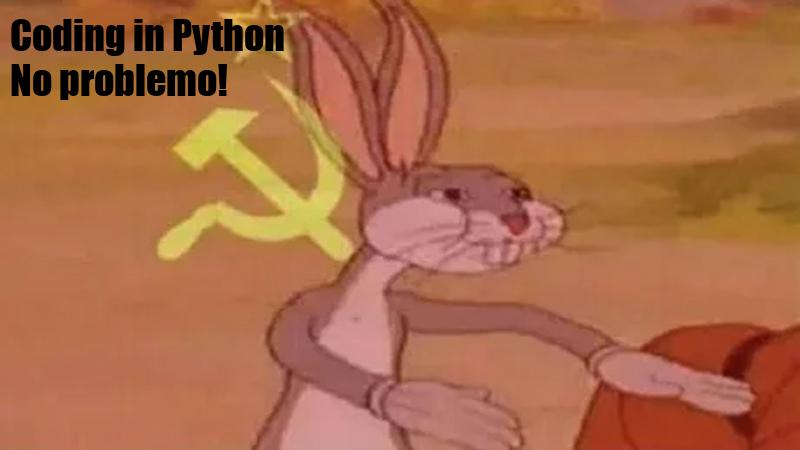
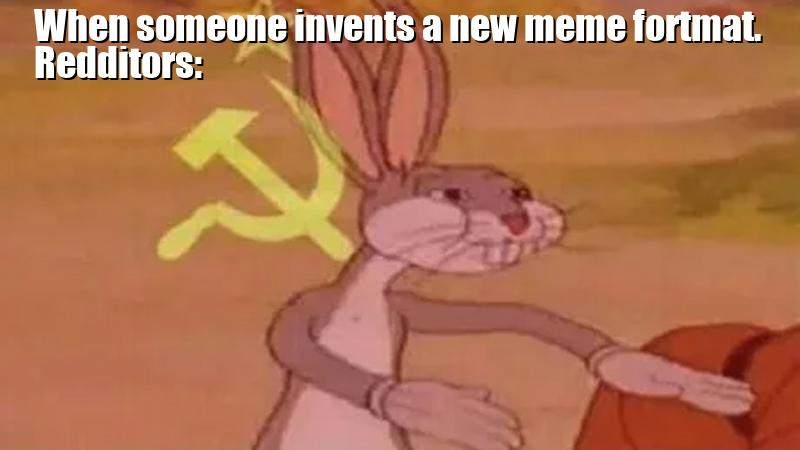
Added Memegifs files

Changed region(s): [[0.0, 0.0, 0.9688, 0.2178]]

diff --git a/03-MemesGifs/maak_meme.py b/03-MemesGifs/maak_meme.py
@@ -1,16 +1,24 @@
 from PIL import Image, ImageFont, ImageDraw
 
-afbeelding = Image.open("bunny.jpg")
+afbeelding = Image.open("meme_background.jpg")
 
 breedte = afbeelding.width
 hoogte = afbeelding.height
 
-lettertype = ImageFont.truetype("impact", 40)
+lettertype = ImageFont.truetype("impact.ttf", 40)
 
 tekengebied = ImageDraw.Draw(afbeelding)
 
-tekst = "Coding in Python\nNo problemo!"
-tekengebied.multiline_text((10,10), tekst, font=lettertype, fill=(0,0,0))
+tekst = "When someone invents a new meme fortmat.\nRedditors:"
+
+tekst_breedte, tekst_hoogte = tekengebied.textsize(tekst, font=lettertype)
+
+tekst_x = (breedte - tekst_breedte) / 2
+#tekst_y = (hoogte - tekst_hoogte) / 2
+tekst_y = 10
+
+tekengebied.multiline_text((tekst_x, tekst_y), tekst, font=lettertype, fill=(0,0,0))
+tekengebied.multiline_text((tekst_x-2, tekst_y-2), tekst, font=lettertype, fill=(255,255,255))
 
 afbeelding.show()
 afbeelding.save("meme_met_tekst.jpg")

diff --git a/03-MemesGifs/meme_tekst_bestand.py b/03-MemesGifs/meme_tekst_bestand.py
@@ -1,0 +1,28 @@
+from PIL import Image, ImageFont, ImageDraw
+
+file = open("meme_tekst.txt")
+
+memeCounter = 0
+
+for text in file:
+    memeCounter += 1
+    text = text.strip()
+    afbeelding = Image.open("meme.jpg")
+
+    breedte = afbeelding.width
+    hoogte = afbeelding.height
+
+    lettertype = ImageFont.truetype("impact.ttf", 40)
+    
+    tekengebied = ImageDraw.Draw(afbeelding)
+    tekst_breedte, tekst_hoogte = tekengebied.textsize(text, font=lettertype)
+
+    tekst_x = (breedte - tekst_breedte) / 2
+    tekst_y = 10
+
+    tekengebied.multiline_text((tekst_x, tekst_y), text, font=lettertype, fill=(0,0,0))
+    tekengebied.multiline_text((tekst_x-2, tekst_y-2), text, font=lettertype, fill=(255,255,255))
+
+    afbeelding.save("meme" + str(memeCounter) + ".jpg")
+
+print(str(memeCounter) + " memes gemaakt")
